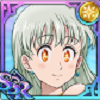
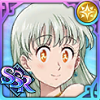
roxy

diff --git a/characters/roxy_of_madness/2.html b/characters/roxy_of_madness/2.html
@@ -4,9 +4,11 @@
 <head>
 	<meta charset="utf-8">
 	<meta name="viewport" content="width=device-width, initial-scale=1, shrink-to-fit=no">
-	<meta name="description" content="[Vengeful Saw Blade] Roxy of Madness - SSR, Speed/Blue">
+	<meta name="description" content="[Runaway Winter] Roxy of Madness - SSR, Strength/Red">
 	<meta name="author" content="">
-	<title>Roxy, Vengeful Saw Blade</title>
+    <meta property="og:site_name" content="GCDB" />
+    <meta property="og:image" content="https://gcdatabase.com/images/characters/roxy_of_madness/ssrr_portrait.png">
+	<title>Roxy, Runaway Winter</title>
 	<link rel="preconnect" href="https://securepubads.g.doubleclick.net/" crossorigin>
 	<link rel="preconnect" href="https://cdn.consentmanager.mgr.consensu.org/" crossorigin>
 	<!-- Place the below code anywhere you like in the <head> (higher is better) -->
@@ -89,10 +91,10 @@
 		<!-- Character Title & Icon -->
 		<div class="row">
 			<div class="mt-3 mb-4 ml-3 titlebox col-lg-6">
-				<img src="../../images/characters/roxy_of_madness/ssrb_portrait.png" class="pr-4" style="float:left"
+				<img src="../../images/characters/roxy_of_madness/ssrr_portrait.png" class="pr-4" style="float:left"
 					loading="lazy">
 				<div class="pt-3">
-					<h5 class="whitetext">&#91;Vengeful Saw Blade&#93;</h5>
+					<h5 class="whitetext">&#91;Runaway Winter&#93;</h5>
 					<h4 class="whitetext">Roxy of Madness</h4>
 				</div>
 			</div>
@@ -114,7 +116,7 @@
 									</tr>
 									<tr>
 										<td>Attribute</td>
-										<td><img src="../../images/icons/attribute_speed.webp" loading="lazy"></td>
+										<td><img src="../../images/icons/attribute_strength.webp" loading="lazy"></td>
 									</tr>
 									<tr>
 										<td>Race</td>
@@ -281,6 +283,7 @@
 					</div>
 				</div>
 			</div>
+            
 			<!-- /.Basic Info  /.End of Left Sidebar -->
 			<!-- Skills -->
 			<div class="col-lg-6 mb-4">
@@ -289,40 +292,38 @@
 					<div>
 						<!-- SKill 1-->
 						<div class="container" style="text-align: center; justify-content: center;">
-							<img src="../../images/characters/roxy_of_madness/ssrb_1.png" class="skillresize" loading="lazy">
+							<img src="../../images/characters/roxy_of_madness/ssrr_1.png" class="skillresize" loading="lazy">
 						</div>
 						<div class="container mt-3">
 							<div class="table-responsive">
 								<table class="table table-dark table-striped table-bordered" style="width:100%">
 									<tr>
-										<th colspan="3">Crazy Blade | クレージー・ブレード</th>
+										<th colspan="3">Dust Snow | ダスト・スノウ</th>
 									</tr>
-									<tbody>
-										<tr>
 											<td align="center">Rank 1</td>
 											<td style="text-align: left">Inflicts <a data-toggle="tooltip"
 													data-placement="top"
-													title="Flood: 0.8% additional damage for every percent of remaining HP on self."><b
-														style="color:#00d4fe">Flood</b></a> damage equal to <b
-													style="color:#faab02">200%</b> of Attack on one enemy.</td>
+													title="Power Strike: Additional damage equal to enemy Resistance."><b
+														style="color:#00d4fe">Power Strike</b></a> damage equal to <b
+													style="color:#faab02">190%</b> of Attack on one enemy.</td>
 											<td>Attack</td>
 										</tr>
 										<tr>
 											<td align="center">Rank 2</td>
 											<td style="text-align: left">Inflicts <a data-toggle="tooltip"
-													data-placement="top"
-													title="Flood: 0.8% additional damage for every percent of remaining HP on self."><b
-														style="color:#00d4fe">Flood</b></a> damage equal to <b
-													style="color:#faab02">300%</b> of Attack on one enemy.</td>
+                                                data-placement="top"
+                                                title="Power Strike: Additional damage equal to enemy Resistance."><b
+                                                    style="color:#00d4fe">Power Strike</b></a> damage equal to <b
+                                                style="color:#faab02">285%</b> of Attack on one enemy.</td>
 											<td>Attack</td>
 										</tr>
 										<tr>
 											<td align="center">Rank 3</td>
 											<td style="text-align: left">Inflicts <a data-toggle="tooltip"
-													data-placement="top"
-													title="Flood: 0.8% additional damage for every percent of remaining HP on self."><b
-														style="color:#00d4fe">Flood</b></a> damage equal to <b
-													style="color:#faab02">500%</b> of Attack on one enemy.</td>
+                                                data-placement="top"
+                                                title="Power Strike: Additional damage equal to enemy Resistance."><b
+                                                    style="color:#00d4fe">Power Strike</b></a> damage equal to <b
+                                                style="color:#faab02">475%</b> of Attack on one enemy.</td>
 											<td>Attack</td>
 										</tr>
 									</tbody>
@@ -333,38 +334,42 @@
 						<div id="nn_mpu3" class="d-flex justify-content-center"></div>
 						<!-- SKill 2-->
 						<div class="container" style="text-align: center; justify-content: center;">
-							<img src="../../images/characters/roxy_of_madness/ssrb_2.png" class="skillresize" loading="lazy">
+							<img src="../../images/characters/roxy_of_madness/ssrr_2.png" class="skillresize" loading="lazy">
 						</div>
 						<div class="container mt-3">
 							<div class="table-responsive">
 								<table class="table table-dark table-striped table-bordered" style="width:100%">
 									<tr>
-										<th colspan="3">Flame Grinder | フレイム・グラインダー</th>
+										<th colspan="3">Santa in the Box | サンタ・イン・ザ・ボックス</th>
 									</tr>
 									<tbody>
 										<tr>
 											<td align="center">Rank 1</td>
-											<td style="text-align: left">Inflicts <a data-toggle="tooltip"
-													data-placement="top" title="Spike: 2x Crit Damage Increase"><b
-														style="color:#00d4fe">Spike</b></a> damage equal to <b
-													style="color:#faab02">100%</b> of Attack on all enemies.</td>
+											<td style="text-align: left">Inflicts damage equal to <b
+                                                style="color:#faab02">200%</b> of Attack on one enemy.</td>
 											<td>Attack</td>
 										</tr>
 										<tr>
 											<td align="center">Rank 2</td>
-											<td style="text-align: left">Inflicts <a data-toggle="tooltip"
-													data-placement="top" title="Spike: 2x Crit Damage Increase"><b
-														style="color:#00d4fe">Spike</b></a> damage equal to <b
-													style="color:#faab02">150%</b> of Attack on all enemies.</td>
-											<td>Attack</td>
+											<td style="text-align: left"><b
+                                                style="color:#00d4fe">Cancels Stances</b> on one enemy and inflicts damage equal to <b
+                                                style="color:#faab02">200%</b> of Attack, then <a data-toggle="tooltip"
+                                                data-placement="top"
+                                                title="Stun: Prohibits all actions."><b
+                                                    style="color:#00d4fe">Stuns</b></a> for <b
+                                                    style="color:#faab02">1</b> turn.</td>
+											<td>Debuff</td>
 										</tr>
 										<tr>
 											<td align="center">Rank 3</td>
-											<td style="text-align: left">Inflicts <a data-toggle="tooltip"
-													data-placement="top" title="Spike: 2x Crit Damage Increase"><b
-														style="color:#00d4fe">Spike</b></a> damage equal to <b
-													style="color:#faab02">250%</b> of Attack on all enemies.</td>
-											<td>Attack</td>
+											<td style="text-align: left"><b
+                                                style="color:#00d4fe">Cancels Stances</b> on one enemy and inflicts damage equal to <b
+                                                style="color:#faab02">250%</b> of Attack, then <a data-toggle="tooltip"
+                                                data-placement="top"
+                                                title="Stun: Prohibits all actions."><b
+                                                    style="color:#00d4fe">Stuns</b></a> for <b
+                                                    style="color:#faab02">2</b> turn(s).</td>
+											<td>Debuff</td>
 										</tr>
 									</tbody>
 								</table>
@@ -374,7 +379,7 @@
 						<div id="nn_mpu1" class="d-flex justify-content-center"></div>
 						<!-- Ult -->
 						<div class="container" style="text-align: center; justify-content: center;">
-							<img src="../../images/characters/roxy_of_madness/ssrb_ult.png" class="skillresize" loading="lazy">
+							<img src="../../images/characters/roxy_of_madness/ssrr_ult.png" class="skillresize" loading="lazy">
 						</div>
 						<div class="container mt-3">
 							<div class="table-responsive">
@@ -414,25 +419,19 @@
 				<div class="list-group mb-3">
 					<div class="list-group-item greytheme whitetext">
 						<div class="container" style="justify-content: center; display: flex">
-							<img src="../../images/characters/roxy_of_madness/ssrb_passive.png" loading="lazy">
+							<img src="../../images/characters/roxy_of_madness/ssrr_passive.png" loading="lazy">
 						</div>
 						<div class="table-responsive mt-3">
 							<table class="table table-dark table-striped table-bordered" style="margin-bottom: 0">
 								<tr>
-									<th colspan="3">I'll Chop You Up | 全部切り飛ばしてやる</th>
+									<th colspan="3">Snowfield Madness | ホラー・ベンジェンス</th>
 								</tr>
 								<tbody>
 									<tr>
-										<td>Increases the hero's Crit Chance by <b
-											style="color:#faab02">40%</b> for <b
-											style="color:#faab02">each</b> <b
-											style="color:#00d4fe">Human ally</b> on the battlefield. If a <b
-											style="color:#00d4fe">Critical Strike</b> occurs from a <b
-											style="color:#00d4fe">Human ally's</b> single-target attack, inflicts <b
-											style="color:#00d4fe">additional damage equal to <b
-											style="color:#faab02">300%</b> of the hero's initial Attack. (Additional damage occurs only <b
-											style="color:#faab02">once</b> for <b
-											style="color:#faab02">each</b> skill)</b></td>
+										<td>If an ally hero kills an enemy during the ally's turn, at the end of the turn, reduce all enemies Ultimate Move Gauge by <b
+                                            style="color:#faab02">2</b>. For every Buff and Debuff applied to enemies, increases allies max HP by <b
+                                            style="color:#faab02">2%</b> (max <b
+                                            style="color:#faab02">20%</b>). </td>
 									</tr>
 								</tbody>
 							</table>
@@ -441,7 +440,7 @@
 				</div>
 				<!-- /.Passive/Unique -->
 				<!-- Bind -->
-				<h2 class="whitetext">Unity</h2>
+				<h2 class="whitetext">Bind</h2>
 				<div class="list-group mb-3">
 					<div class="list-group-item greytheme whitetext">
 						<div class="container" style="justify-content: center; display: flex">
@@ -457,7 +456,8 @@
 										<td>Increases
                                             <a data-toggle="tooltip" data-placement="top" title="Attack-related: Attack, Pierce Rate, Crit Chance, and Crit Damage">
                                                 <b style="color:#00d4fe">Attack-related stats</b></a> of Human heroes with a Unity effect by <b
-                                                style="color:#faab02">3/4/5/7/8/10%</b>. <b style="color:#00d4fe">(Unity effect is enhanced based on Ultimate Move Level)</b></td>
+                                                style="color:#faab02">3/4/5/7/8/10%</b>. 
+                                                <b style="color:#00d4fe">(Unity effect is enhanced based on Ultimate Move Level)</b></td>
 									</tr>
 								</tbody>
 							</table>

diff --git a/characters/tyr/1.html b/characters/tyr/1.html
@@ -391,7 +391,7 @@
 											<td style="text-align: left">Increases <a data-toggle="tooltip" data-placement="top" title="Attack-related: Attack, Pierce Rate, Crit Chance, and Crit Damage"><b style="color:#00d4fe">Attack-related stats</b></a> of all allies by <b style="color:#faab02">5%</b> and inflicts <a data-toggle="tooltip" data-placement="top" title="Sever: 3x Crit Chance Increase"><b style="color:#00d4fe">Sever</b></a> damage equal to <b style="color:#faab02">350%</b> of Attack on all enemies.</td>
 										</tr>
 										<tr>
-											<td colspan="2">Multiplier: 35%<br>350/385/420/455/490/525% <br>Buff multiplier:
+											<td colspan="2">Multiplier: 35%<br>350/385/420/455/490/525% <br>Buff Multiplier:
 												5-10%<br>20/25/30/40/50/60%</td>
 										</tr>
 									</tbody>
@@ -450,7 +450,7 @@
 				</div>
 				<!-- /.Passive/Unique -->
 				<!-- Bind -->
-				<h2 class="whitetext">Bind</h2>
+				<h2 class="whitetext">Unity</h2>
 				<div class="list-group mb-3">
 					<div class="list-group-item greytheme whitetext">
 						<div class="container" style="justify-content: center; display: flex">
@@ -466,8 +466,8 @@
 										<td>Increases Crit Defense of <a 
 											data-toggle="tooltip" data-placement="top" title="Applicable Allies: [Ragnarok], Unknown Race"><b
 											style="color:#00d4fe">applicable allies</b> with a Unity effect by <b
-											style="color:#faab02">20%</b>. <b
-											style="color:#00d4fe"></td>
+											style="color:#faab02">20/25/30/40/50/60%</b>. <b
+											style="color:#00d4fe">(Unity effect is enhanced based on Ultimate Move Level)</b></td>
 									</tr>
 								</tbody>
 							</table>

diff --git a/index.html b/index.html
@@ -122,9 +122,12 @@
 				<div class="jumbotron greytheme whitetext" style="padding: 1rem 1rem">
 					<h2 style="text-align: center;">New Characters</h2>
 					<div class="d-flex justify-content-center">
+						<a class="character-list-item" href="characters/roxy_of_madness/2"><img
+							src="images/characters/roxy_of_madness/ssrr_portrait.png" class="m-3"
+							loading="lazy"></a>
 						<a class="character-list-item" href="characters/elizabeth_queen/1"><img
 							src="images/characters/elizabeth_queen/ssrl_portrait.png" class="m-3"
-							loading="lazy"></a></a>
+							loading="lazy"></a>
 					</div>
 				</div>
 

diff --git a/characters.html b/characters.html
@@ -113,6 +113,13 @@
 					</thead>
 					<tbody>	
 						<tr>
+							<td><a href="characters/roxy_of_madness/2"><img src="images/characters/roxy_of_madness/ssrr_portrait.png"
+										style="width:50px; height:50px;" loading="lazy"><br>Roxy of Madness</a></td>
+							<td>Strength</td>
+							<td>SSR</td>
+							<td>Human</td>
+						</tr>
+						<tr>
 							<td><a href="characters/elizabeth_queen/1"><img src="images/characters/elizabeth_queen/ssrl_portrait.png"
 										style="width:50px; height:50px;" loading="lazy"><br>Queen Elizabeth</a></td>
 							<td>Light</td>
